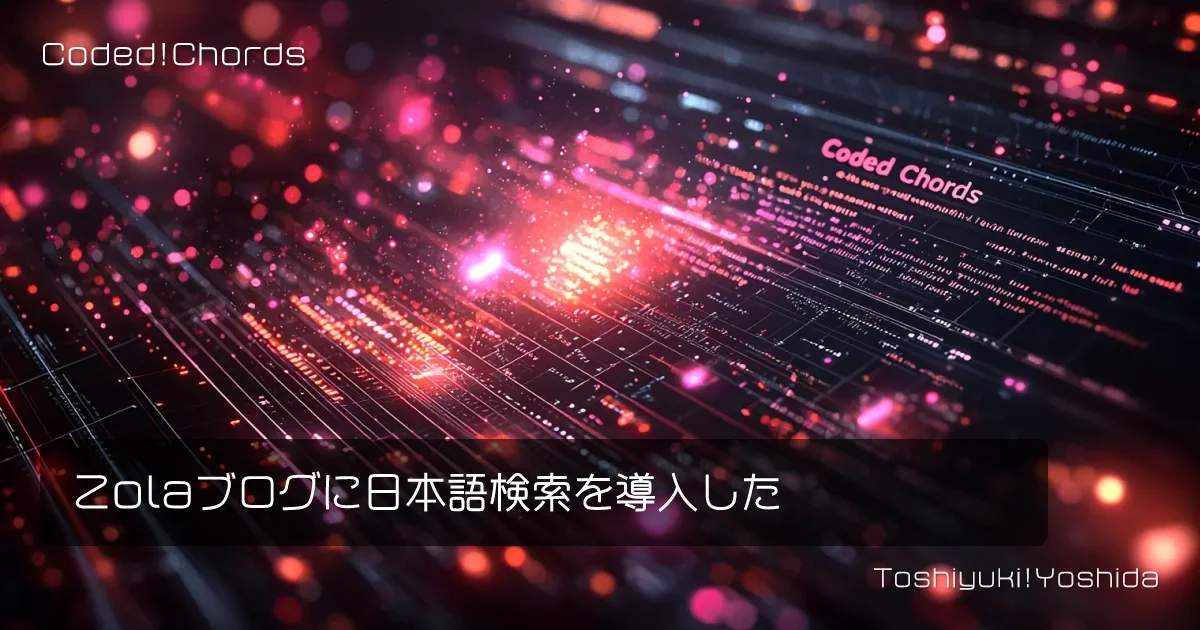
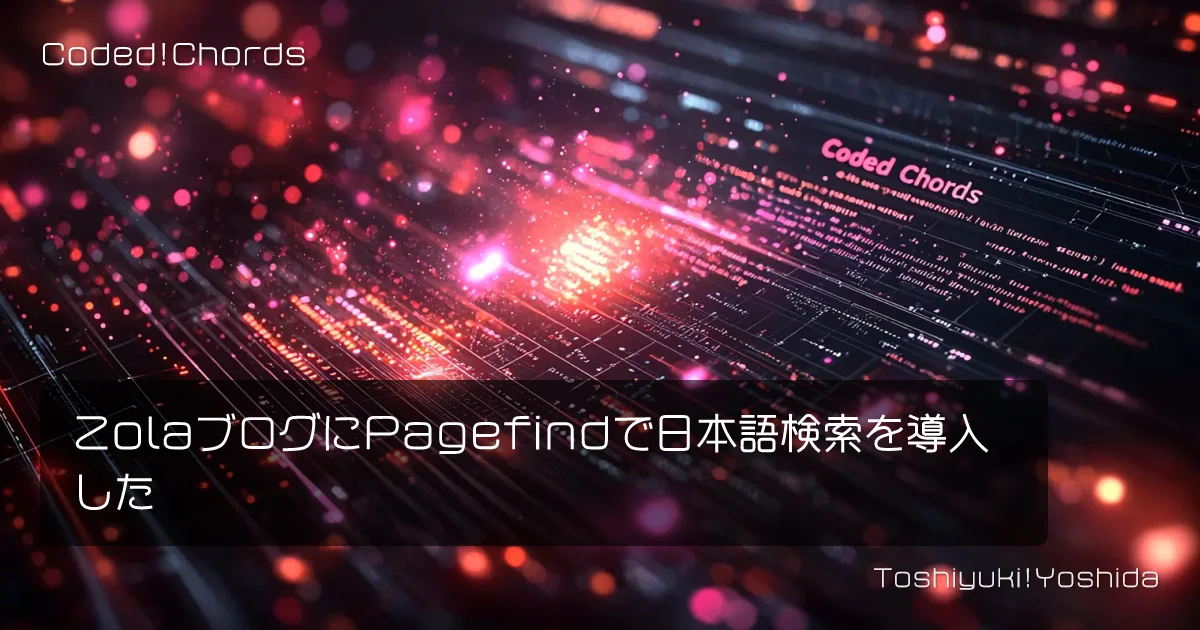
feat: add Kashima Shrine drone article

diff --git a/content/blog/2026/02/kashima-shrine/index.md b/content/blog/2026/02/kashima-shrine/index.md
@@ -1,0 +1,46 @@
++++
+title = "鹿島神宮 西の一之鳥居"
+description = """
+鹿島神宮「西の一之鳥居」をドローンで空撮しました。
+常陸利根川の水上に立つ高さ18.5mの朱色の鳥居は、
+水上鳥居として日本最大の規模を誇ります。
+"""
+date = 2026-02-26T15:26:15+09:00
+
+[taxonomies]
+tags = ["Drone", "Photography"]
+
+[extra]
+social_media_card = "ogp.webp"
++++
+
+![Cover](./cover.jpg)
+
+2月20日に常陸利根川（鰐川）で
+ドローンを飛ばしてきました。
+目当ては、神宮橋近くの水上に立つ
+高さ18.5m・幅22.5mの朱色の鳥居です。
+
+鹿島神宮の「西の一之鳥居」と呼ばれ、
+広島の厳島神社の大鳥居を超える
+日本最大の水上鳥居として知られています。
+所在地は茨城県鹿嶋市大船津で、
+東関東自動車道の潮来ICから
+神宮橋を渡る際にその姿が目に入ります。
+
+![西の一之鳥居](./torii.jpg)
+
+江戸時代、大船津は水運の要衝であり
+鹿島神宮参拝の玄関口でした。
+この水上鳥居の景観は歌川広重の
+『六十余州名所図会』にも描かれています。
+
+現在の鳥居は2013年6月に竣工したもので、
+新日鐵住金製の耐候性鋼材が使われています。
+旧鳥居の約2.5倍の規模に建て替えられました。
+鹿島神宮には東西南北4つの一之鳥居があり、
+その内側が神域とされています。
+
+夕日に照らされた姿が特に美しく、
+10月の鹿嶋市花火大会では
+この鳥居の背後から花火が打ち上がります。
